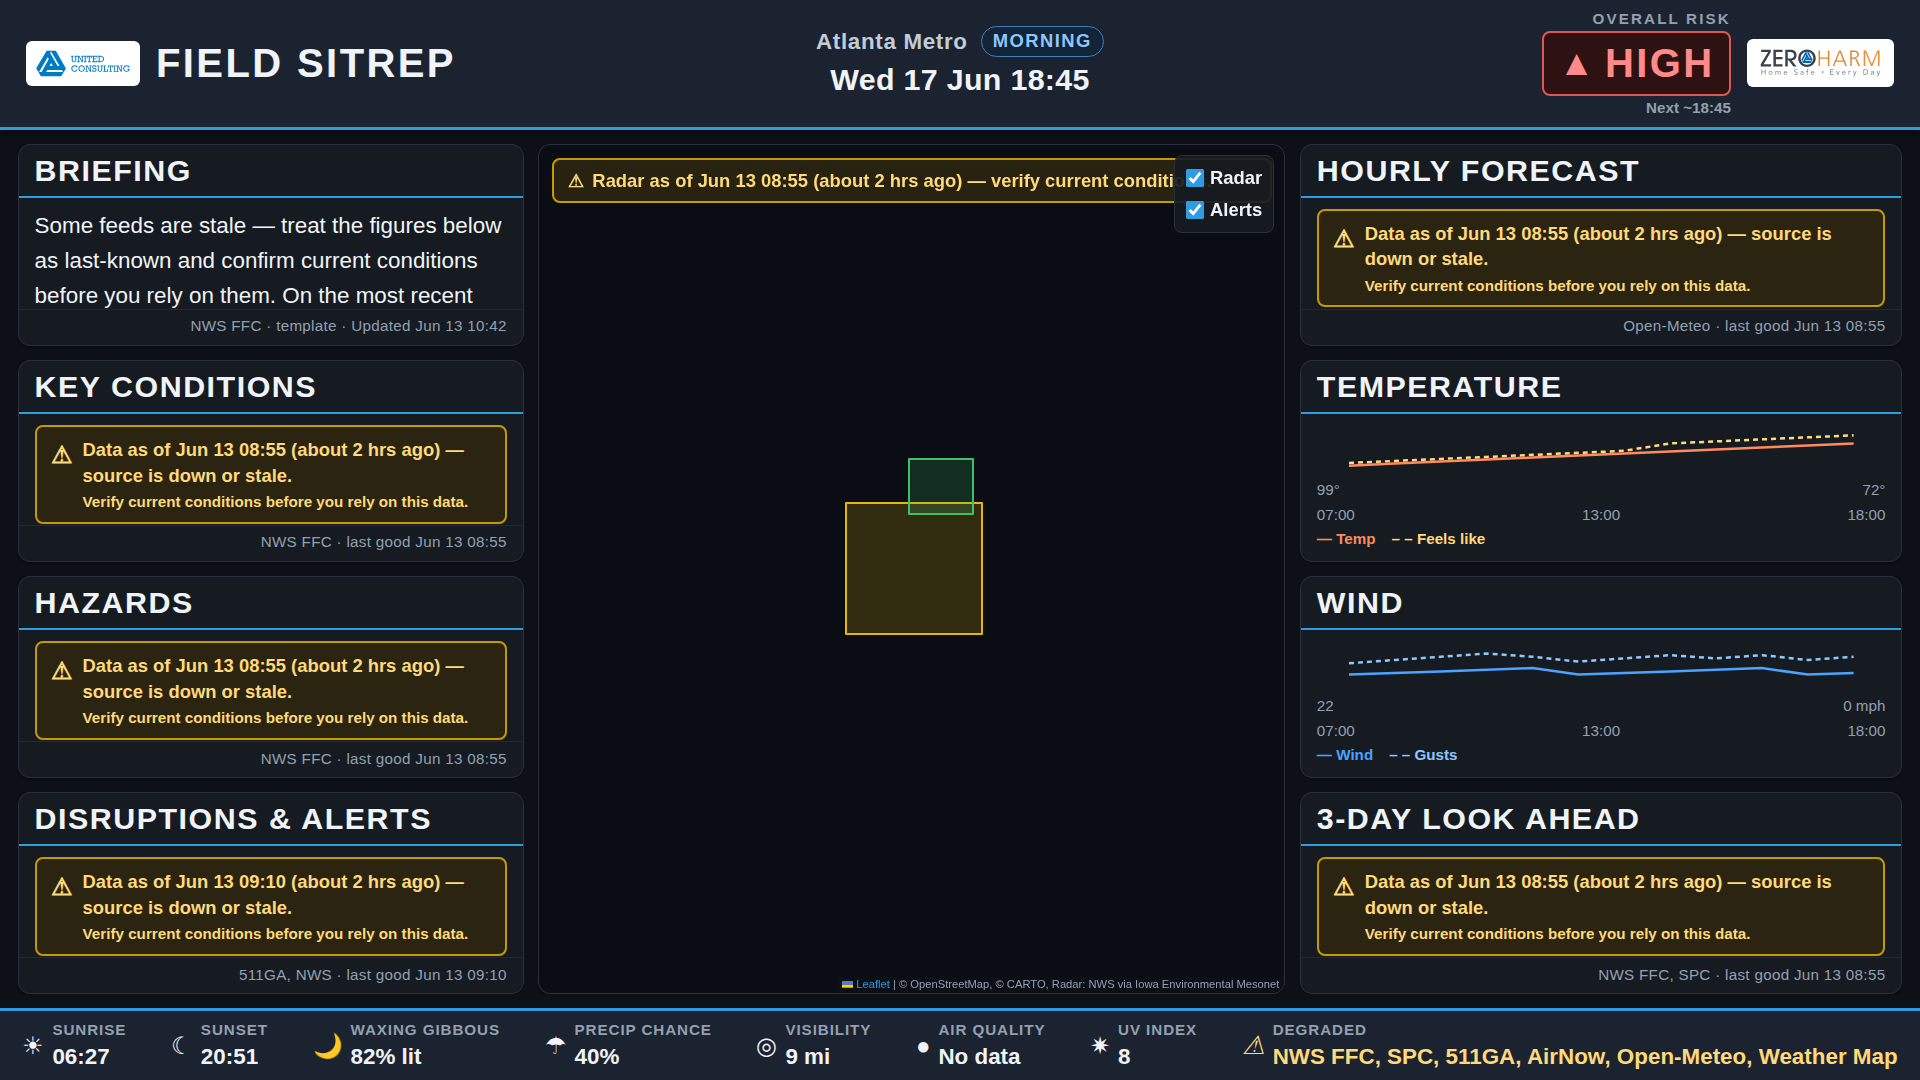
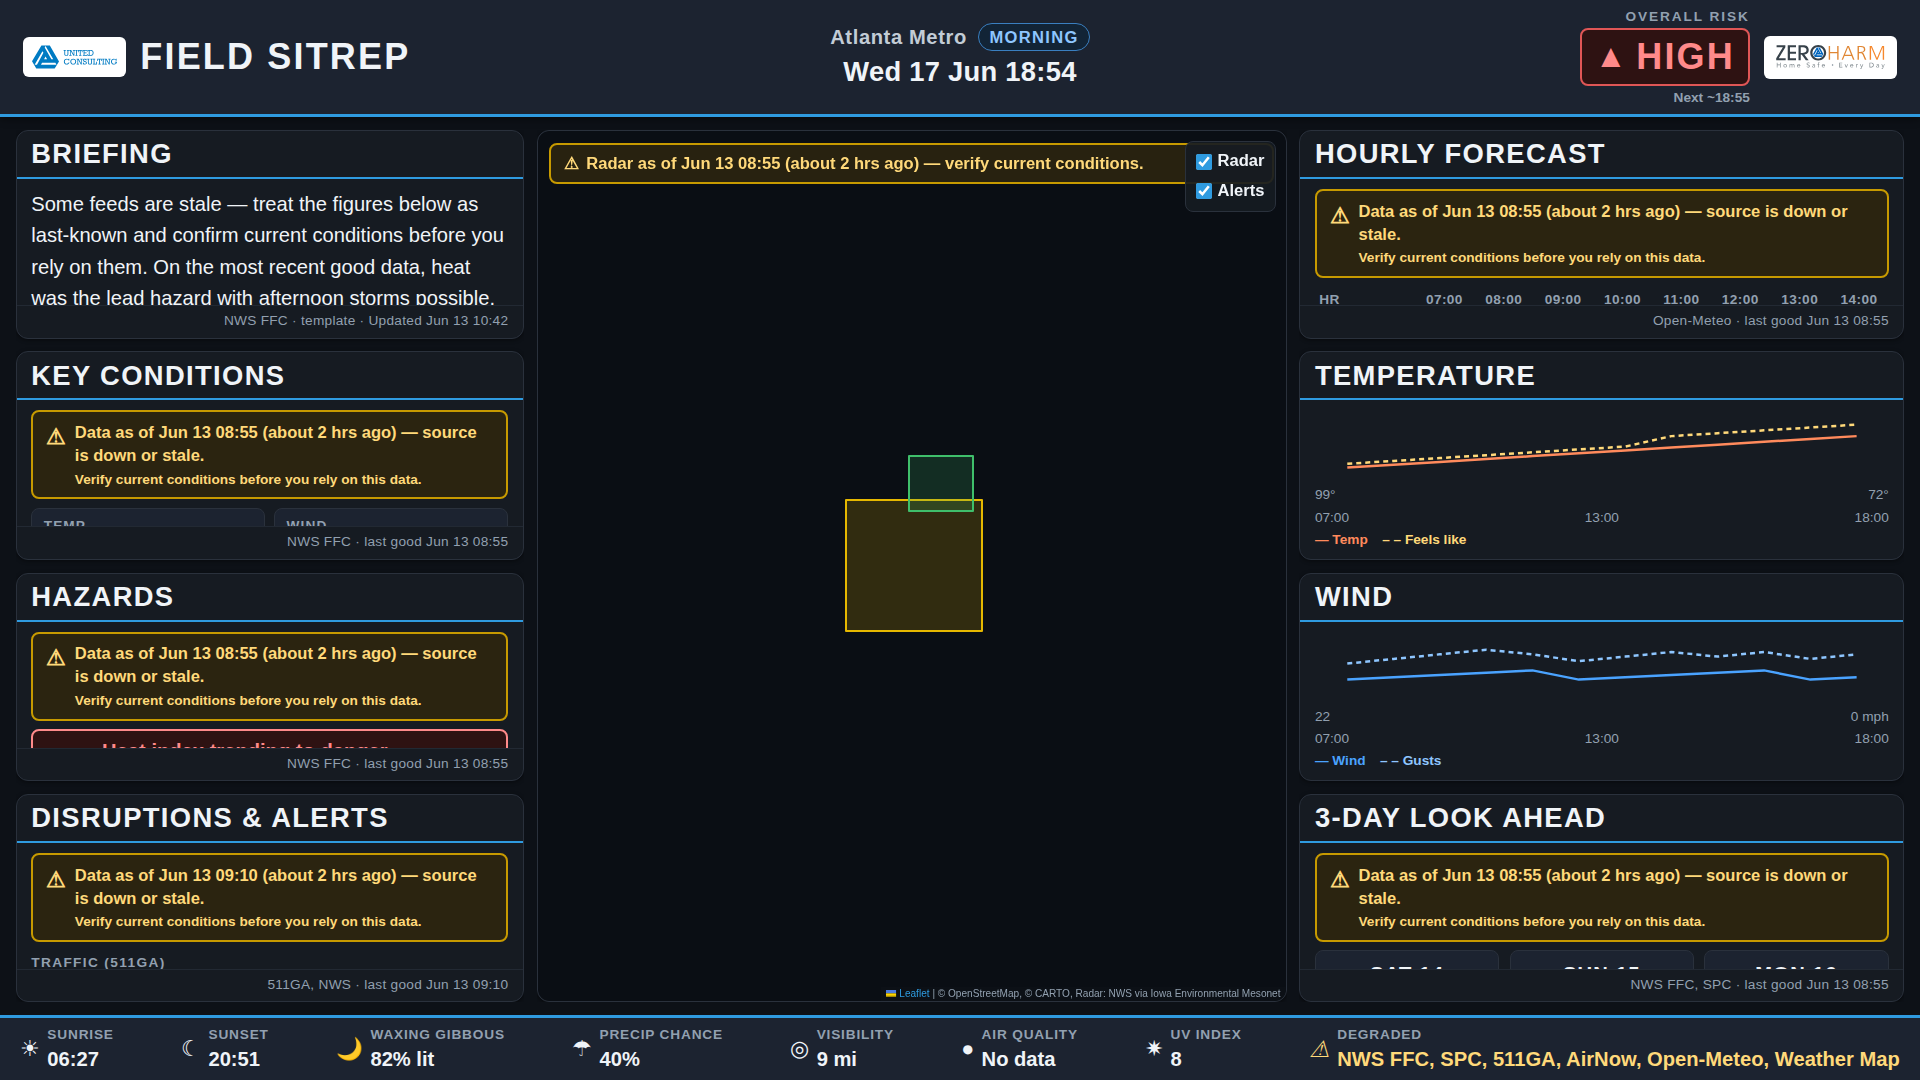
Scale UI down ~10% to reduce clipping
Trim the root font size from 16px to 14.4px so all rem-based sizing shrinks
~10%, fitting more data per card without clipping (still legible across the
room). Refresh the demo screenshots at the new scale.

Claude-Session: https://claude.ai/code/session_01Y9rQ1Ty2sLiduRjRvFBWt4

diff --git a/frontend/styles.css b/frontend/styles.css
@@ -62,7 +62,9 @@ html, body {
   color: var(--text-primary);
   font-family: "Inter", "Roboto", -apple-system, BlinkMacSystemFont, "Segoe UI",
                "Helvetica Neue", Arial, "Liberation Sans", sans-serif;
-  font-size: 16px;
+  /* Root size drives all rem-based sizing. Trimmed ~10% from 16px so more data
+     fits without clipping; still legible across the room (PRD NFR-7). */
+  font-size: 14.4px;
   line-height: var(--lh-normal);
   -webkit-font-smoothing: antialiased;
 }